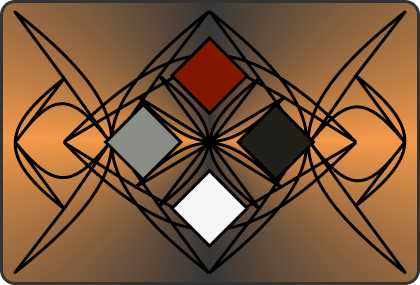
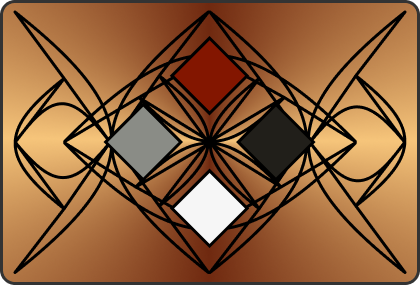
graphical improvements
custom scroll bars for cards,
sweying ships,
changed cards-back,

diff --git a/src/app/game/harbour/harbour.component.ts b/src/app/game/harbour/harbour.component.ts
@@ -33,6 +33,10 @@ export class HarbourComponent implements OnInit {
     burialchamber = [];
     obelisk = [];
 
+    private waveCounter: number; // Used to let the ship wave around
+    private showWave: boolean; // Used to show wave
+    private alreadyStarted: boolean;
+
 
     private styleSubscription: any;
 
@@ -73,8 +77,13 @@ export class HarbourComponent implements OnInit {
         //adding styles for undocked ships
         this.addStyleEmptyShip();
 
+        this.waveCounter = 0; // initialize waveCounter to 0;
+        this.alreadyStarted = false;
+        this.showWave = false;
+
         //polling ship positions
         this.pollShipPositions();
+
 
     }
 
@@ -197,11 +206,31 @@ export class HarbourComponent implements OnInit {
         return shipStyle;
     }
 
+    swapWave(): void {
+        this.showWave = !this.showWave;
+        this.pollShipPositions();
+    }
+
     pollShipPositions(): void {
-        this.styleSubscription = Observable.interval(100).subscribe(x => {
+        let timeShip: number;
+        if (this.alreadyStarted) {
+            this.styleSubscription.unsubscribe();
+        }
+        else {
+            this.alreadyStarted = true;
+        }
+        if (this.showWave) {
+            timeShip = 16;
+        }
+        else {
+            timeShip = 200;
+        }
+        this.styleSubscription = Observable.interval(timeShip).subscribe(x => {
             this.setShipPositions();
+        });
+        this.styleSubscription = Observable.interval(200).subscribe(x => {
             this.setEmptyShipsPositions();
-        })
+        });
 
     }
 
@@ -214,25 +243,41 @@ export class HarbourComponent implements OnInit {
             if (!this.currentShips[i].docked) { //ship not docked means it is still in the water
                 this.removeStyleShip(); //removing styles before modifications
 
+                let step = Math.PI * 2 / 4000;
+                let omegaHorizontal = 2; // angular velocity for the ship positions formula
+                let omegaVertical = 4; // angular velocity for the ship positions formula
+                let amplitude = 5; // max positive and negative offset in pixels of the ship positions
+
+                if (!this.showWave) {
+                    amplitude = 0;
+                }
                 switch (i + 1) {
                     case 1: {
-                        this.styleShip1Position.innerHTML = '.ship' + (i + 1) + ' {top: 90px;  left: -20px;}';
+                        this.styleShip1Position.innerHTML = '.ship' + (i + 1) + ' {top: ' + (90 + amplitude * Math.sin(this.waveCounter * omegaVertical + 0.8)) + 'px;' +
+                            '  left:' + ( -20 + amplitude * Math.sin(this.waveCounter * omegaHorizontal + 0.8)) + 'px;}';
                         break;
                     }
                     case 2: {
-                        this.styleShip2Position.innerHTML = '.ship' + (i + 1) + ' {top: 180px;  left: -20px;}';
+                        this.styleShip2Position.innerHTML = '.ship' + (i + 1) + ' {top: ' + (180 + amplitude * Math.sin(this.waveCounter * omegaVertical + 2.4)) + 'px;' +
+                            '  left:' + ( -20 + amplitude * Math.sin(this.waveCounter * omegaHorizontal + 2.4)) + 'px;}';
                         break;
                     }
                     case 3: {
-                        this.styleShip3Position.innerHTML = '.ship' + (i + 1) + ' {top: 270px; left: -20px;}';
+                        this.styleShip3Position.innerHTML = '.ship' + (i + 1) + ' {top: ' + (270 + amplitude * Math.sin(this.waveCounter * omegaVertical + 1.6)) + 'px;' +
+                            '  left:' + ( -20 + amplitude * Math.sin(this.waveCounter * omegaHorizontal + 1.6)) + 'px;}';
                         break;
                     }
                     case 4: {
-                        this.styleShip4Position.innerHTML = '.ship' + (i + 1) + ' {top: 360px;  left: -20px;}';
+                        this.styleShip4Position.innerHTML = '.ship' + (i + 1) + ' {top: ' + (360 + amplitude * Math.sin(this.waveCounter * omegaVertical + 3.2)) + 'px;' +
+                            '  left:' + ( -20 + amplitude * Math.sin(this.waveCounter * omegaHorizontal + 3.2)) + 'px;}';
                         break;
                     }
                 }
                 this.addStyleShip(); //adding styles again after modifications
+                this.waveCounter += step;
+                if (this.waveCounter >= Math.PI * 2) {
+                    this.waveCounter = 0;
+                }
             }
 
             else if (this.currentShips[i].docked) { //ship is docked means it must be hidden and an empty counterpart must be displayed at that ship's dock

diff --git a/src/app/game/harbour/harbour.component.css b/src/app/game/harbour/harbour.component.css
@@ -85,7 +85,7 @@ Docks
     background: brown;
     border-radius: 40px;
     position: relative;
-    right: -177px;
+    right: -181px;
     display: flex;
     flex-direction: row;
     z-index: 1;
@@ -128,19 +128,18 @@ Info Column:
 ***********************************************************************************************************************/
 
 .info-column {
-    border: 2px solid brown;
-    border-radius: 10px;
     height: 40px;
     position: relative;
     top: 584px;
     /*right: 175px;*/
-    right: 250px;
+    right: 220px;
     flex-grow: 1;
     color: black;
     max-width: 40px;
     display: flex;
     align-items: center;
     justify-content: center;
+    text-align:center;
 }
 
 .info-hover {
@@ -223,7 +222,7 @@ Dynamic styles for stone colors:
     overflow:hidden;
 }
 
-/*FAST FORWARD ********************************************************************************************************/
+/*FAST FORWARD  AND SHOW WAVE BUTTONS *********************************************************************************/
 
 .fast-forward {
     height: 30px;
@@ -232,6 +231,43 @@ Dynamic styles for stone colors:
     color: white;
     position: relative;
     top: 594px;
-    right: 200px;
+    right: 150px;
     text-align: center;
+}
+.show-wave{
+    height: 30px;
+    min-width: 100px;
+    background: rgba(0, 0, 0, 0.8);
+    color: white;
+    position: relative;
+    top: 594px;
+    right: 550px;
+    text-align: center;
+}
+
+/***********************************************************************************************************************
+ Buttons:
+***********************************************************************************************************************/
+
+.bottom-btn {
+    color: white;
+    border: 0;
+    border-radius:5px;
+    background-image: -webkit-linear-gradient(top,var(--colorFour), #5e2e1a);
+    transition-duration: 0.4s;
+    outline:none;
+}
+
+
+/*Hover color for button*/
+.bottom-btn:hover {
+    color: white;
+    border: 0;
+    border-radius:5px;
+    background-image: -webkit-linear-gradient(top, var(--colorFour),rgba(80,80,80,1));
+}
+.bottom-btn:active{
+    box-shadow: 0 0 16px 10px rgba(200,200,200,0.2), 0 6px 20px 0 rgba(200,200,200,0.19);
+    background-image: -webkit-linear-gradient(top, #5e2e1a, rgba(80,80,80,1));
+
 }

diff --git a/src/app/game/opposing-player/opposing-player.component.css b/src/app/game/opposing-player/opposing-player.component.css
@@ -144,3 +144,23 @@ Dynamic styles for quarry and stones and turn highlight:
 .highlight {
     border: 8px solid var(--turn);
 }
+
+/***********************************************************************************************************************
+ CUSTOM SCROLLBAR
+ **********************************************************************************************************************/
+#scrollable::-webkit-scrollbar-track {
+    -webkit-box-shadow: inset 0 0 6px rgba(0, 0, 0, 0.3);
+    border-radius: 10px;
+    background-color: rgba(150, 150, 150, 0.8);
+}
+
+#scrollable::-webkit-scrollbar {
+    width: 12px;
+    background-color: rgba(150, 150, 150, 0);
+}
+
+#scrollable::-webkit-scrollbar-thumb {
+    border-radius: 10px;
+    -webkit-box-shadow: inset 0 0 6px rgba(0, 0, 0, .3);
+    background-color: rgba(55, 55, 55, 0.9);
+}

diff --git a/src/app/game/current-player/current-player.component.css b/src/app/game/current-player/current-player.component.css
@@ -183,3 +183,23 @@ Dynamic styles for quarry, stones and turn highlight:
 .highlight {
     border: 8px solid var(--turn);
 }
+
+/***********************************************************************************************************************
+ CUSTOM SCROLLBAR
+ **********************************************************************************************************************/
+#scrollable::-webkit-scrollbar-track {
+    -webkit-box-shadow: inset 0 0 6px rgba(0, 0, 0, 0.3);
+    border-radius: 10px;
+    background-color: rgba(150, 150, 150, 0.8);
+}
+
+#scrollable::-webkit-scrollbar {
+    width: 12px;
+    background-color: rgba(150, 150, 150, 0);
+}
+
+#scrollable::-webkit-scrollbar-thumb {
+    border-radius: 10px;
+    -webkit-box-shadow: inset 0 0 6px rgba(0, 0, 0, .3);
+    background-color: rgba(55, 55, 55, 0.9);
+}

diff --git a/src/app/game/harbour/harbour.component.html b/src/app/game/harbour/harbour.component.html
@@ -61,7 +61,15 @@
             </span>
         </div>
     </div>
-    <div class="fast-forward btn" (click)="fastForward()">
+    <div class="fast-forward btn bottom-btn" (click)="fastForward()">
         fast-forward
+    </div>
+    <div class="show-wave btn bottom-btn" (click)="swapWave()">
+        <div class="start-swey" *ngIf="!showWave">
+            start swey
+        </div>
+        <div class="stop-swey" *ngIf="showWave">
+            stop swey
+        </div>
     </div>
 </div>

diff --git a/src/app/game/current-player/current-player.component.html b/src/app/game/current-player/current-player.component.html
@@ -59,7 +59,7 @@
         </div>
     </div>
     <div class="cards-block">
-        <div class="cards-container">
+        <div class="cards-container" id="scrollable">
             <div class="market-card" *ngFor="let card of currentUserCards">
                 <market-card (click)="useCard(card.id)" [currentCard]="card"></market-card>
             </div>

diff --git a/src/app/game/opposing-player/opposing-player.component.html b/src/app/game/opposing-player/opposing-player.component.html
@@ -63,7 +63,7 @@
     </div>
     <div class="cards-block">
         <div class="cards-container">
-            <div class="cards">
+            <div class="cards" id="scrollable">
                 <div class="market-card" *ngFor="let card of getCards()">
                     <market-card [currentCard]="card"></market-card>
                 </div>

diff --git a/src/styles.css b/src/styles.css
@@ -44,4 +44,3 @@ body {
     background-size: cover;
     font-family: 'Sanchez', serif;
 }
-
